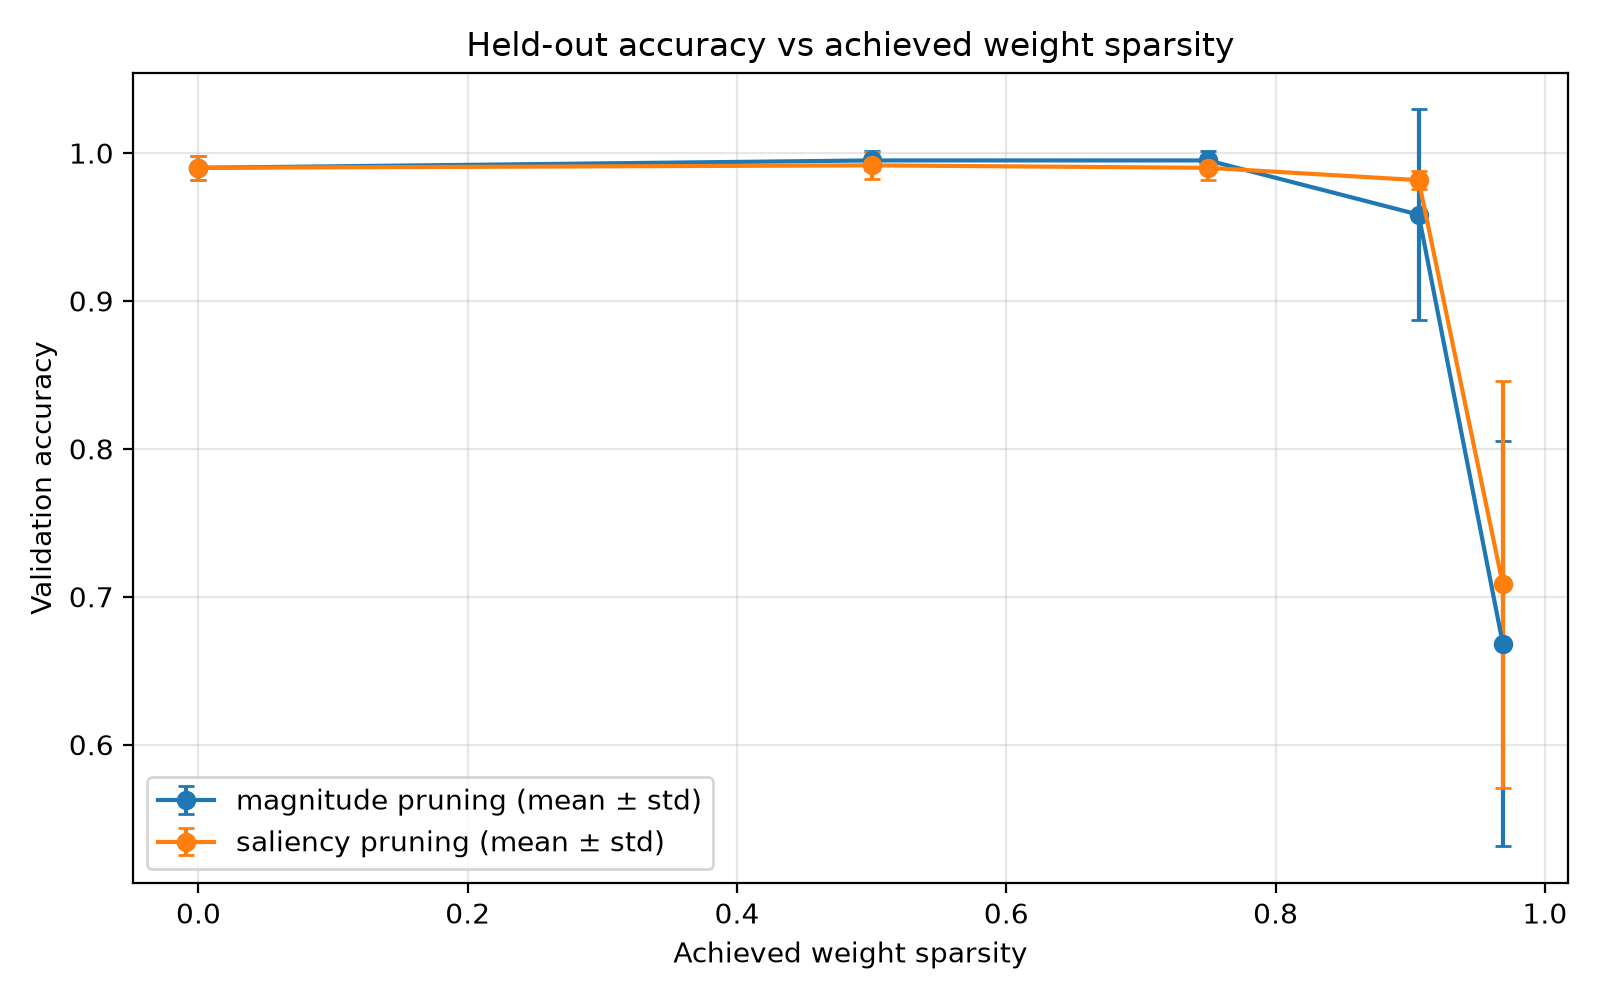
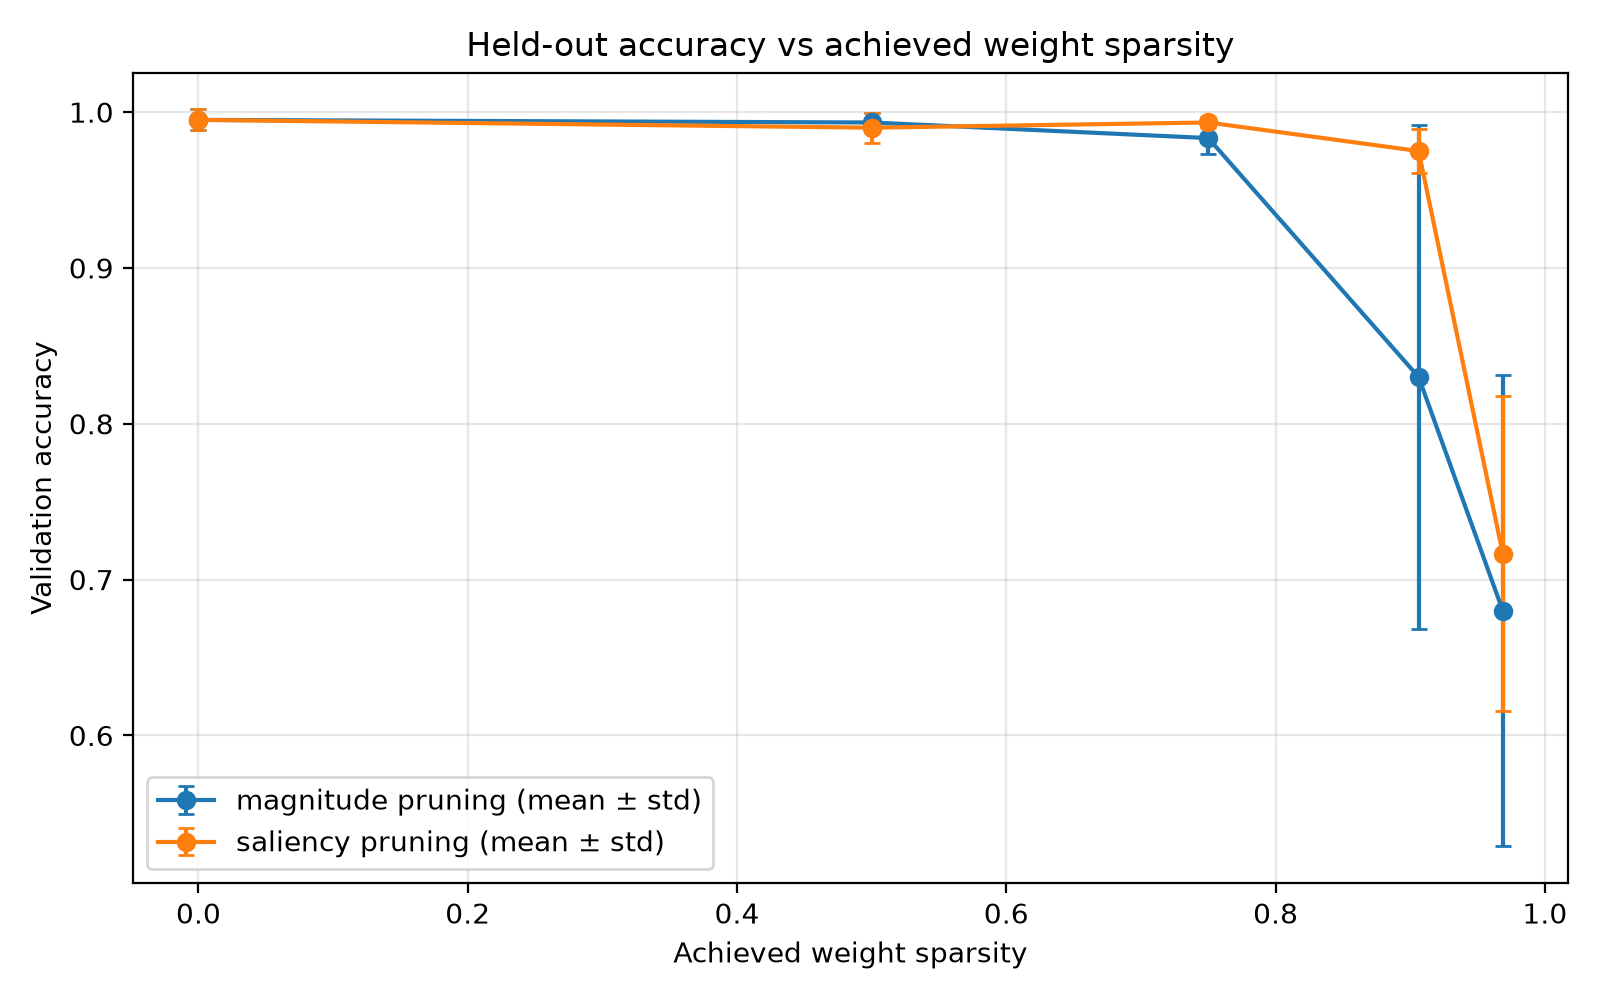
docs: refresh pruning experiment evidence

diff --git a/results/EVIDENCE.md b/results/EVIDENCE.md
@@ -1,8 +1,6 @@
 # Part 4 — Evidence and falsifiable claim
 
-> **Revalidation required:** The numeric results below were generated before the stratified-split and stricter dataset-validation changes in PR #9. They are historical results, not evidence for the updated protocol. After PR #9 passes CI and is merged, rerun `python scripts/pruning_analysis.py` and replace the tables and falsifiable claim with the newly generated `results/pareto_results.csv` values before submission.
-
-This report summarizes the committed artifacts generated by the repository scripts. Re-run the commands below after changing code, data, dependencies, or the target machine.
+This report documents the current pruning experiments and inference benchmark.
 
 ## Reproduce the artifacts
 
@@ -12,45 +10,47 @@ python scripts/sparse_execution_benchmark.py
 python -m pytest -q
 ```
 
-- `pareto_curve.png` plots mean held-out validation accuracy against achieved weight sparsity, with standard-deviation error bars.
-- `pareto_results.csv` contains all 50 per-seed observations: five seeds × five target sparsities × two criteria.
-- `sparse_execution_benchmark.csv` records output equivalence, timing, and a weight-multiply-count proxy.
+Generated artifacts:
+- `pareto_curve.png`: mean held-out validation accuracy versus achieved weight sparsity, with standard-deviation error bars.
+- `pareto_results.csv`: per-seed results across five seeds, five target sparsities, and two pruning criteria.
+- `sparse_execution_benchmark.csv`: output equivalence, timing, and structural weight-multiply counts.
 
-## Baseline comparison at approximately 90% target sparsity
+## Comparison at approximately 90% target sparsity
 
-All five seeds achieved 90.625% weight sparsity (6 active weights out of 64 prunable weights).
+All five seeds achieved 90.625% weight sparsity, leaving 6 active weights out of 64 prunable weights.
 
-| Seed | Magnitude validation accuracy | Saliency validation accuracy | Saliency − magnitude |
+| Seed | Magnitude validation accuracy | Saliency validation accuracy | Difference |
 |---:|---:|---:|---:|
-| 7 | 100.00% | 98.33% | −1.67 pp |
-| 17 | 81.67% | 98.33% | +16.67 pp |
-| 27 | 98.33% | 99.17% | +0.83 pp |
-| 37 | 100.00% | 97.50% | −2.50 pp |
-| 47 | 99.17% | 97.50% | −1.67 pp |
-| **Mean** | **95.83%** | **98.17%** | **+2.33 pp** |
+| 7 | 95.00% | 95.00% | +0.00 pp |
+| 17 | 89.17% | 97.50% | +8.33 pp |
+| 27 | 79.17% | 99.17% | +20.00 pp |
+| 37 | 98.33% | 98.33% | +0.00 pp |
+| 47 | 53.33% | 97.50% | +44.17 pp |
+| **Mean** | **83.00%** | **97.50%** | **+14.50 pp** |
 
-Across these five seeds, the population standard deviation of accuracy was 7.11 percentage points for magnitude pruning and 0.62 percentage points for saliency pruning. The standard deviation of the *paired per-seed differences* was 8.11 percentage points (sample SD). Saliency won on two seeds, lost on three, and one large magnitude-pruning failure drives much of the average difference.
+The paired sample standard deviation of the per-seed differences is 18.50 percentage points. Saliency matched magnitude on two seeds and outperformed it on three.
 
-**Interpretation:** these results are descriptive evidence on this small synthetic dataset, not proof that saliency is universally better or that the mean difference is statistically significant. Five seeds are a small sample; use more seeds and additional datasets before making a general claim.
+**Interpretation:** these results describe one synthetic dataset and five fixed seeds. They do not establish universal superiority or statistical significance.
 
-## One falsifiable claim
+## Falsifiable claim
 
-> On the repository's current synthetic dataset and fixed five-seed protocol (7, 17, 27, 37, 47), at 90.625% achieved weight sparsity, mean held-out accuracy is 98.17% for Taylor-style saliency pruning and 95.83% for magnitude pruning, a paired mean difference of +2.33 percentage points.
+> On the current synthetic dataset and fixed five-seed protocol (7, 17, 27, 37, 47), at 90.625% achieved sparsity, mean held-out accuracy is 97.50% for Taylor-style saliency pruning and 83.00% for magnitude pruning, a paired mean difference of +14.50 percentage points.
 
-This claim is falsified if rerunning the committed protocol with the same code, dataset, dependencies, and seeds does not reproduce those values within floating-point / deterministic-runtime tolerance. It does not claim a statistically significant or universal advantage.
+The claim is falsified if rerunning the same protocol with the same code, data, dependencies, and seeds does not reproduce these values within reasonable numerical tolerance.
 
-## Real cost measurement and caveat
+## Inference cost measurement
 
-The committed `sparse_execution_benchmark.csv` records:
+The latest `sparse_execution_benchmark.csv` records:
 
 - Achieved sparsity: 90.625%.
-- Weight-multiply-count proxy: 65,536 dense versus 6,144 active-weight multiplies for batch size 1,024 (90.625% fewer weight connections counted).
-- Maximum absolute dense-versus-sparse-aware output error: 0.0 in the recorded run.
-- Median latency: dense 0.1005 ms; sparse-aware 0.8458 ms.
-- Dense/sparse-aware speed ratio: 0.119×. The sparse-aware implementation was approximately 8.42× slower in that environment.
+- Structural weight-multiply-count proxy: 65,536 dense versus 6,144 active-weight multiplies for batch size 1,024.
+- Maximum absolute output error: 0.0.
+- Median dense latency: 0.1052 ms.
+- Median sparse-aware latency: 0.3505 ms.
+- Dense/sparse-aware speed ratio: 0.300x; sparse-aware inference was approximately 3.33x slower in this environment.
 
-The sparse-aware path actually skips exact-zero connections; it is not a dense matrix multiplication followed by masking. However, Python loops and indexing dominate this small model, so the lower multiply-count proxy did **not** translate into faster inference. Do not claim a latency speedup from these results. The multiply count is a structural proxy, not a hardware FLOP profiler, and excludes bias/activation work. Timings are environment-specific.
+The sparse-aware implementation skips exact-zero connections, but Python loops and indexing overhead outweighed the reduced multiply count. This count is a structural proxy, not a hardware FLOP measurement. Timing is environment-specific. **Do not claim an inference speedup.**
 
 ## Division-by-zero edge case
 
-Tensor division now raises `ZeroDivisionError` before constructing a computation-graph node if the denominator contains any exact zero. This avoids silently creating `inf`/`nan` values that can poison later gradients. Regression tests cover scalar zero, a zero inside a denominator tensor, reverse division, and gradients with a broadcast denominator.
+Tensor division raises `ZeroDivisionError` before constructing a computation-graph node when the denominator contains an exact zero. Regression tests cover scalar zero, zero values in denominator tensors, reverse division, and gradients with a broadcast denominator.
